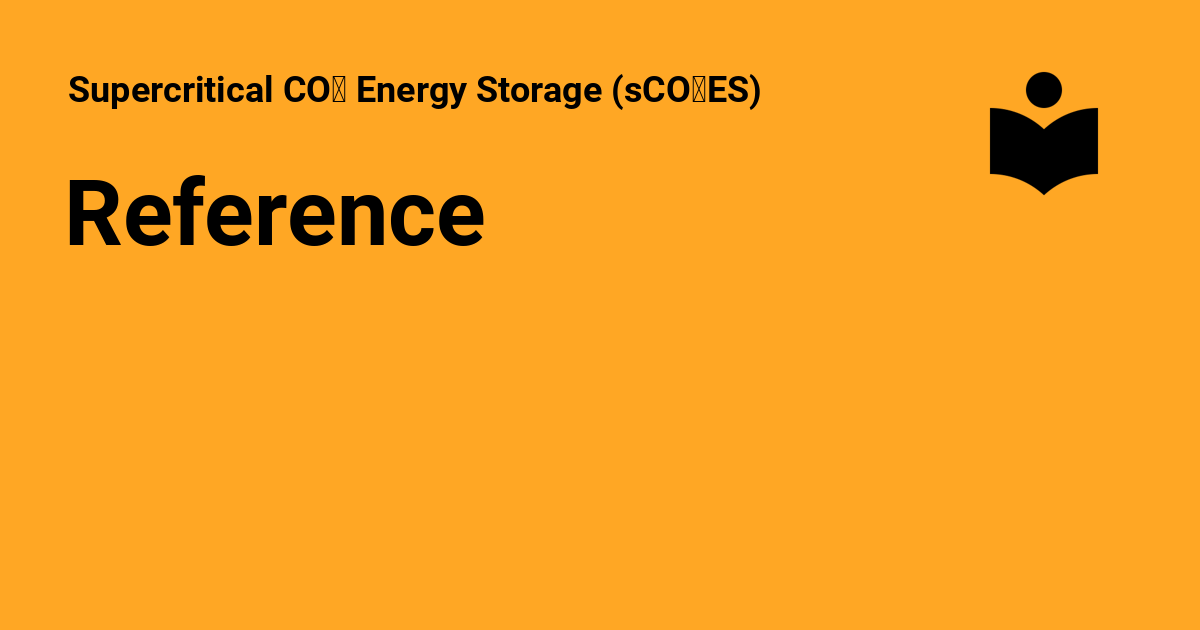
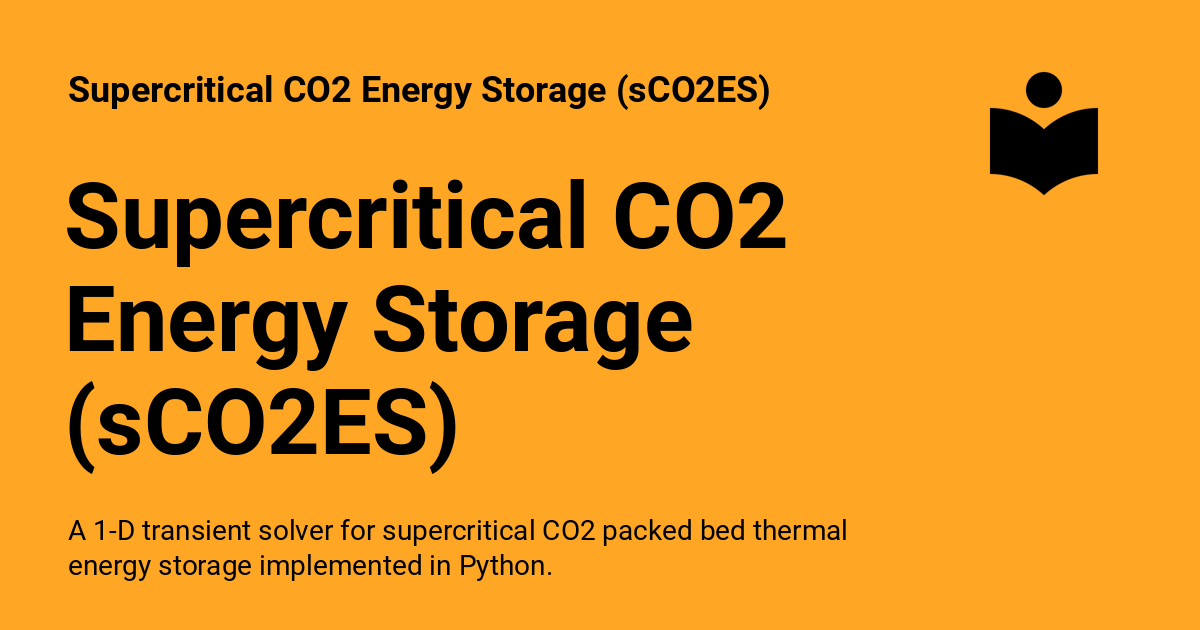
Deployed cb62d53 with MkDocs version: 1.6.0

diff --git a/index.html b/index.html
@@ -6,6 +6,8 @@
       <meta charset="utf-8">
       <meta name="viewport" content="width=device-width,initial-scale=1">
       
+        <meta name="description" content="A 1-D transient solver for supercritical CO2 packed bed thermal energy storage implemented in Python.">
+      
       
       
         <link rel="canonical" href="https://vasulab.github.io/sCO2ES/">
@@ -18,7 +20,7 @@
     
     
       
-        <title>Supercritical CO₂ Energy Storage (sCO₂ES)</title>
+        <title>Supercritical CO2 Energy Storage (sCO2ES) Reference - Supercritical CO2 Energy Storage (sCO2ES)</title>
       
     
     
@@ -57,9 +59,9 @@
       
         <meta  property="og:type"  content="website" >
       
-        <meta  property="og:title"  content="Reference" >
+        <meta  property="og:title"  content="Supercritical CO2 Energy Storage (sCO2ES) Reference" >
       
-        <meta  property="og:description"  content="None" >
+        <meta  property="og:description"  content="A 1-D transient solver for supercritical CO2 packed bed thermal energy storage implemented in Python." >
       
         <meta  property="og:image"  content="https://vasulab.github.io/sCO2ES/assets/images/social/index.png" >
       
@@ -73,9 +75,9 @@
       
         <meta  name="twitter:card"  content="summary_large_image" >
       
-        <meta  name="twitter:title"  content="Reference" >
+        <meta  name="twitter:title"  content="Supercritical CO2 Energy Storage (sCO2ES) Reference" >
       
-        <meta  name="twitter:description"  content="None" >
+        <meta  name="twitter:description"  content="A 1-D transient solver for supercritical CO2 packed bed thermal energy storage implemented in Python." >
       
         <meta  name="twitter:image"  content="https://vasulab.github.io/sCO2ES/assets/images/social/index.png" >
       
@@ -116,7 +118,7 @@
 
 <header class="md-header md-header--shadow" data-md-component="header">
   <nav class="md-header__inner md-grid" aria-label="Header">
-    <a href="." title="Supercritical CO₂ Energy Storage (sCO₂ES)" class="md-header__button md-logo" aria-label="Supercritical CO₂ Energy Storage (sCO₂ES)" data-md-component="logo">
+    <a href="." title="Supercritical CO2 Energy Storage (sCO2ES)" class="md-header__button md-logo" aria-label="Supercritical CO2 Energy Storage (sCO2ES)" data-md-component="logo">
       
   
   <svg xmlns="http://www.w3.org/2000/svg" viewBox="0 0 24 24"><path d="M12 8a3 3 0 0 0 3-3 3 3 0 0 0-3-3 3 3 0 0 0-3 3 3 3 0 0 0 3 3m0 3.54C9.64 9.35 6.5 8 3 8v11c3.5 0 6.64 1.35 9 3.54 2.36-2.19 5.5-3.54 9-3.54V8c-3.5 0-6.64 1.35-9 3.54Z"/></svg>
@@ -130,13 +132,13 @@
       <div class="md-header__ellipsis">
         <div class="md-header__topic">
           <span class="md-ellipsis">
-            Supercritical CO₂ Energy Storage (sCO₂ES)
+            Supercritical CO2 Energy Storage (sCO2ES)
           </span>
         </div>
         <div class="md-header__topic" data-md-component="header-topic">
           <span class="md-ellipsis">
             
-              Reference
+              Supercritical CO2 Energy Storage (sCO2ES) Reference
             
           </span>
         </div>
@@ -261,13 +263,13 @@
 
 <nav class="md-nav md-nav--primary" aria-label="Navigation" data-md-level="0">
   <label class="md-nav__title" for="__drawer">
-    <a href="." title="Supercritical CO₂ Energy Storage (sCO₂ES)" class="md-nav__button md-logo" aria-label="Supercritical CO₂ Energy Storage (sCO₂ES)" data-md-component="logo">
+    <a href="." title="Supercritical CO2 Energy Storage (sCO2ES)" class="md-nav__button md-logo" aria-label="Supercritical CO2 Energy Storage (sCO2ES)" data-md-component="logo">
       
   
   <svg xmlns="http://www.w3.org/2000/svg" viewBox="0 0 24 24"><path d="M12 8a3 3 0 0 0 3-3 3 3 0 0 0-3-3 3 3 0 0 0-3 3 3 3 0 0 0 3 3m0 3.54C9.64 9.35 6.5 8 3 8v11c3.5 0 6.64 1.35 9 3.54 2.36-2.19 5.5-3.54 9-3.54V8c-3.5 0-6.64 1.35-9 3.54Z"/></svg>
 
     </a>
-    Supercritical CO₂ Energy Storage (sCO₂ES)
+    Supercritical CO2 Energy Storage (sCO2ES)
   </label>
   
     <div class="md-nav__source">
@@ -304,7 +306,7 @@
           
   
   <span class="md-ellipsis">
-    Reference
+    Supercritical CO2 Energy Storage (sCO2ES) Reference
   </span>
   
 
@@ -315,7 +317,7 @@
         
   
   <span class="md-ellipsis">
-    Reference
+    Supercritical CO2 Energy Storage (sCO2ES) Reference
   </span>
   
 

diff --git a/404.html b/404.html
@@ -16,7 +16,7 @@
     
     
       
-        <title>Supercritical CO₂ Energy Storage (sCO₂ES)</title>
+        <title>Supercritical CO2 Energy Storage (sCO2ES)</title>
       
     
     
@@ -83,7 +83,7 @@
 
 <header class="md-header md-header--shadow" data-md-component="header">
   <nav class="md-header__inner md-grid" aria-label="Header">
-    <a href="/sCO2ES/." title="Supercritical CO₂ Energy Storage (sCO₂ES)" class="md-header__button md-logo" aria-label="Supercritical CO₂ Energy Storage (sCO₂ES)" data-md-component="logo">
+    <a href="/sCO2ES/." title="Supercritical CO2 Energy Storage (sCO2ES)" class="md-header__button md-logo" aria-label="Supercritical CO2 Energy Storage (sCO2ES)" data-md-component="logo">
       
   
   <svg xmlns="http://www.w3.org/2000/svg" viewBox="0 0 24 24"><path d="M12 8a3 3 0 0 0 3-3 3 3 0 0 0-3-3 3 3 0 0 0-3 3 3 3 0 0 0 3 3m0 3.54C9.64 9.35 6.5 8 3 8v11c3.5 0 6.64 1.35 9 3.54 2.36-2.19 5.5-3.54 9-3.54V8c-3.5 0-6.64 1.35-9 3.54Z"/></svg>
@@ -97,7 +97,7 @@
       <div class="md-header__ellipsis">
         <div class="md-header__topic">
           <span class="md-ellipsis">
-            Supercritical CO₂ Energy Storage (sCO₂ES)
+            Supercritical CO2 Energy Storage (sCO2ES)
           </span>
         </div>
         <div class="md-header__topic" data-md-component="header-topic">
@@ -226,13 +226,13 @@
 
 <nav class="md-nav md-nav--primary" aria-label="Navigation" data-md-level="0">
   <label class="md-nav__title" for="__drawer">
-    <a href="/sCO2ES/." title="Supercritical CO₂ Energy Storage (sCO₂ES)" class="md-nav__button md-logo" aria-label="Supercritical CO₂ Energy Storage (sCO₂ES)" data-md-component="logo">
+    <a href="/sCO2ES/." title="Supercritical CO2 Energy Storage (sCO2ES)" class="md-nav__button md-logo" aria-label="Supercritical CO2 Energy Storage (sCO2ES)" data-md-component="logo">
       
   
   <svg xmlns="http://www.w3.org/2000/svg" viewBox="0 0 24 24"><path d="M12 8a3 3 0 0 0 3-3 3 3 0 0 0-3-3 3 3 0 0 0-3 3 3 3 0 0 0 3 3m0 3.54C9.64 9.35 6.5 8 3 8v11c3.5 0 6.64 1.35 9 3.54 2.36-2.19 5.5-3.54 9-3.54V8c-3.5 0-6.64 1.35-9 3.54Z"/></svg>
 
     </a>
-    Supercritical CO₂ Energy Storage (sCO₂ES)
+    Supercritical CO2 Energy Storage (sCO2ES)
   </label>
   
     <div class="md-nav__source">
@@ -260,7 +260,7 @@
         
   
   <span class="md-ellipsis">
-    Reference
+    Supercritical CO2 Energy Storage (sCO2ES) Reference
   </span>
   
 
